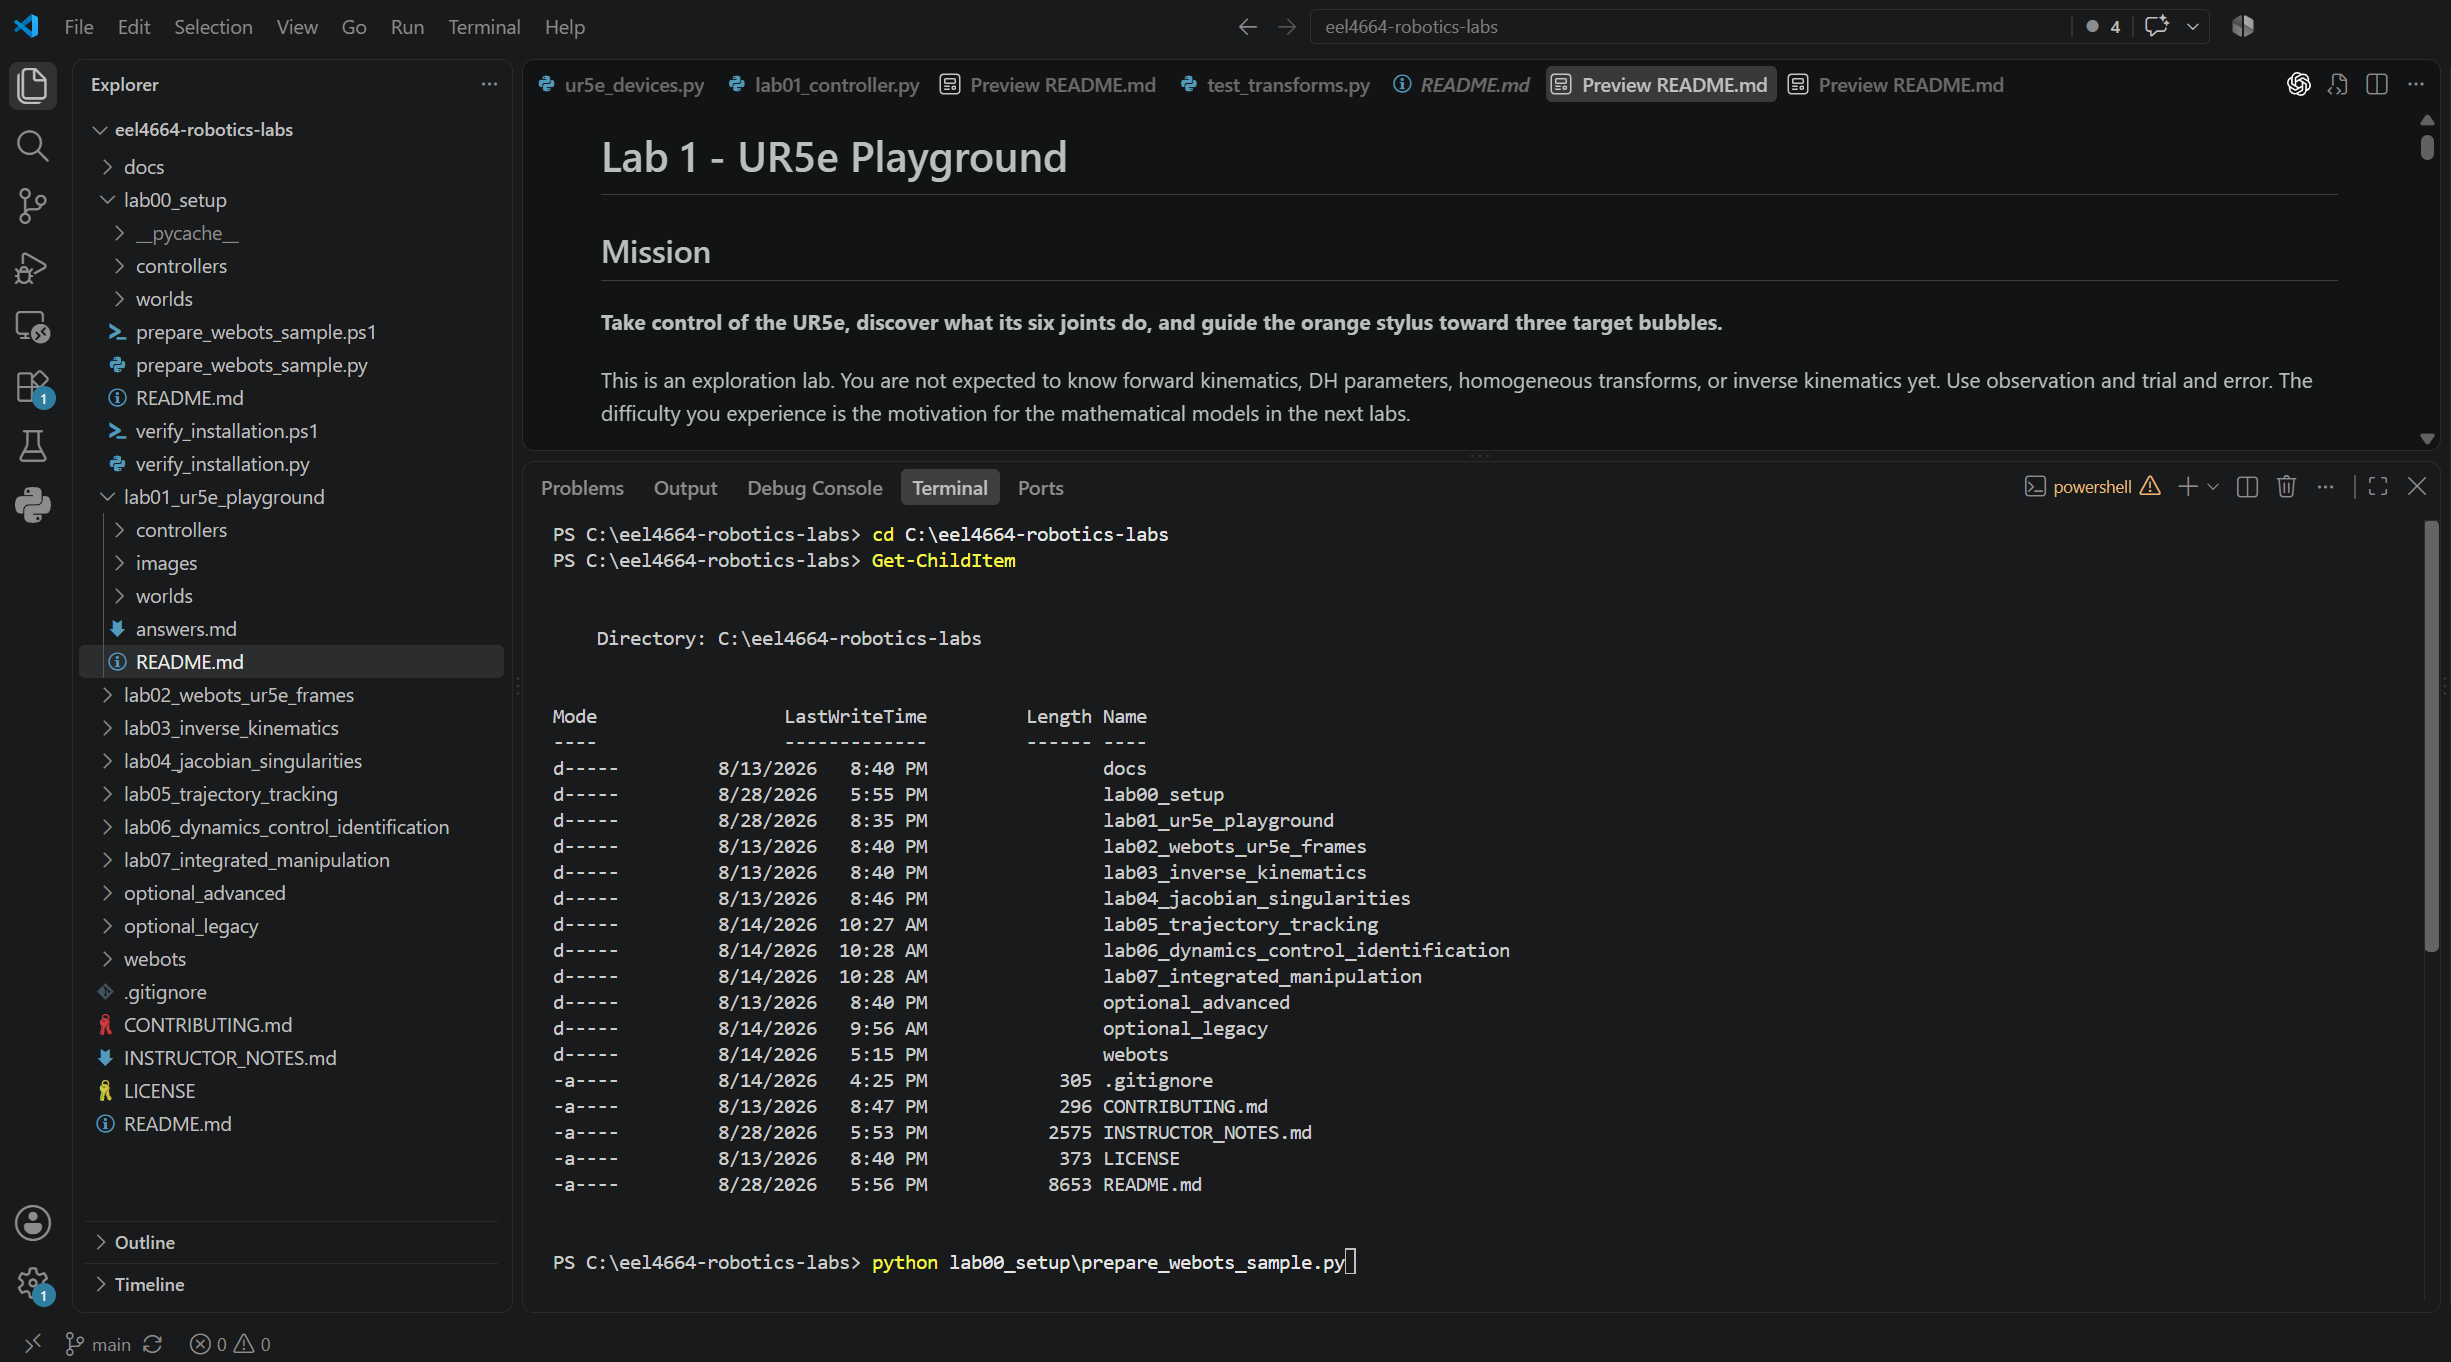
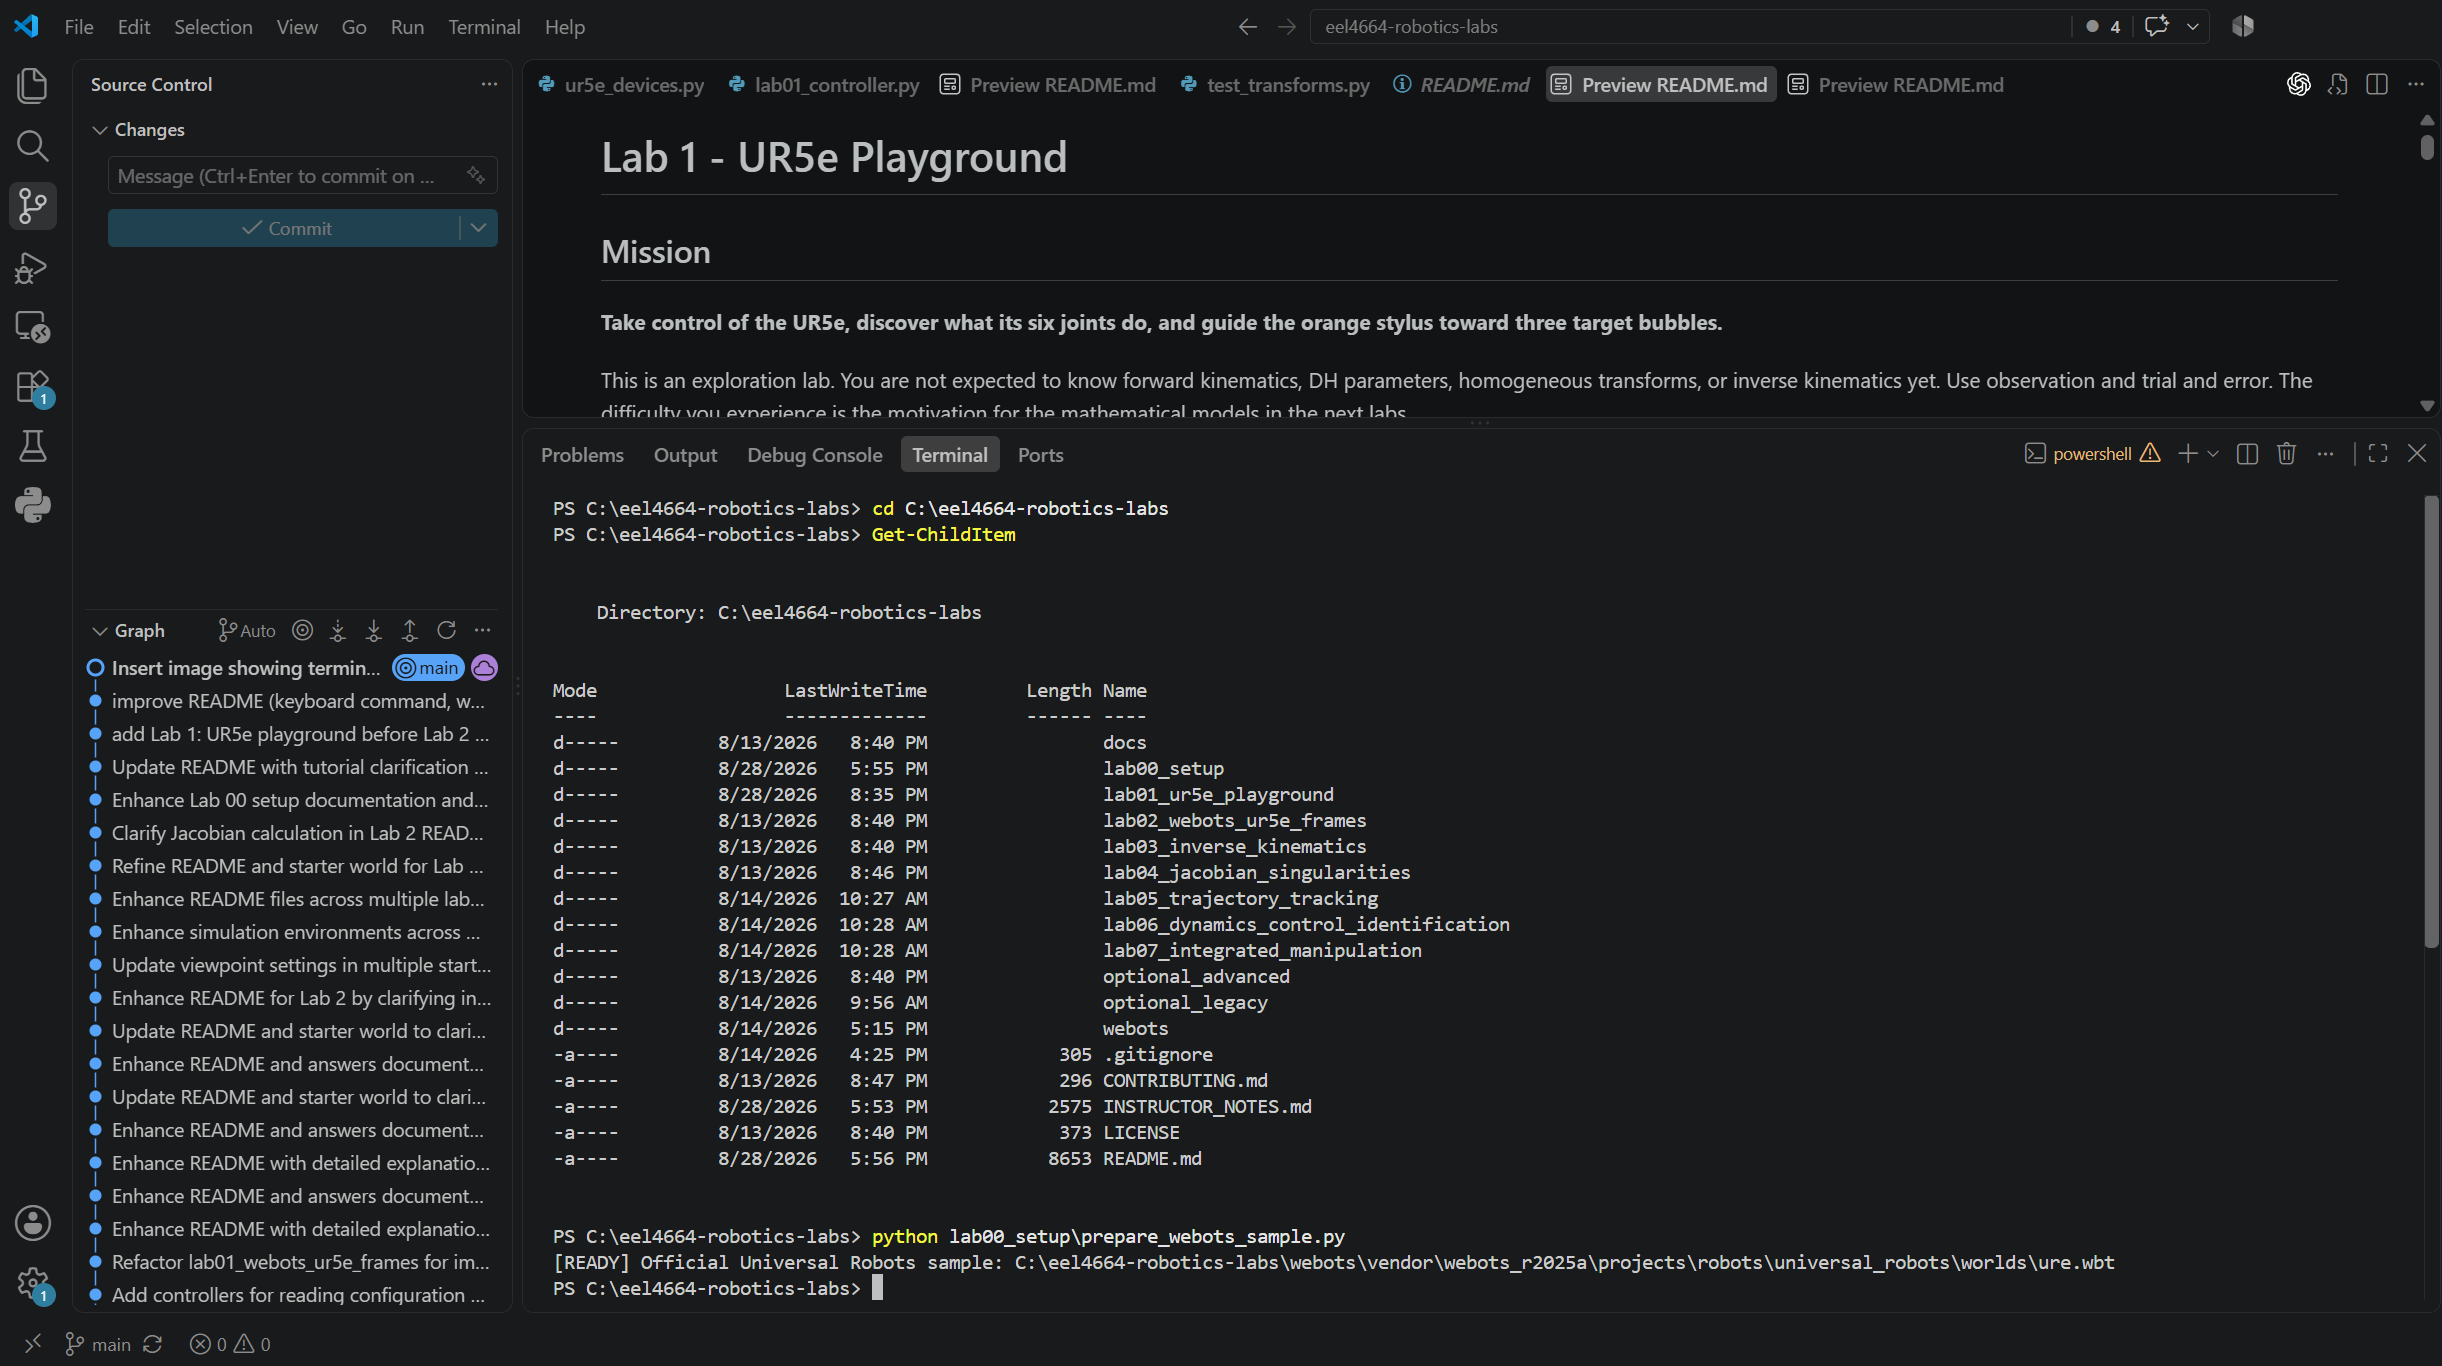
Update Lab 1 README to clarify terminal output and add image for Windows setup

diff --git a/lab01_ur5e_playground/README.md b/lab01_ur5e_playground/README.md
@@ -45,7 +45,7 @@ Complete [Lab 00 - Software Setup and Webots Basics](../lab00_setup/README.md), 
    python lab00_setup\prepare_webots_sample.py
    ```
 
-   The Windows example below shows VS Code opened at the correct repository folder. The terminal prompt begins with `PS C:\eel4664-robotics-labs>`, and `Get-ChildItem` lists `lab00_setup` and `lab01_ur5e_playground` before the preparation command is run.
+   The Windows example below shows VS Code opened at the correct repository folder. The terminal prompt begins with `PS C:\eel4664-robotics-labs>`, `Get-ChildItem` lists `lab00_setup` and `lab01_ur5e_playground`, and the preparation command finishes with `[READY]`.
 
    ![VS Code and PowerShell opened at the eel4664-robotics-labs repository root](images/repository_root_windows.png)
 
